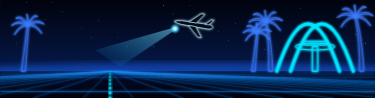
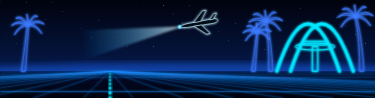
Host pass: landing light from the nose along the glide path; admin wallet button uses fixed hex colors (bento remaps white)
Claude-Session: https://claude.ai/code/session_01W4SfZfHrfogFEbRffj4dB8

Changed region(s): [[0.2347, 0.0918, 0.5867, 0.6122]]

diff --git a/src/pages/admin/TeslaCard.tsx b/src/pages/admin/TeslaCard.tsx
@@ -70,10 +70,10 @@ export function HostPassCard() {
         <Wallet className="mt-0.5 h-4 w-4 text-teal-300 bento:text-teal-600" />
         <div>
           <p className="text-sm font-medium text-white bento:text-neutral-900">My host pass</p>
-          <p className="mt-0.5 text-xs text-white/50 bento:text-neutral-500">Your own garage pass. Add it once on your iPhone; the new code lands in it on the 1st, when you save it here.</p>
+          <p className="mt-0.5 text-xs text-white/50 bento:text-neutral-500">Your own garage pass. Add it once on your iPhone. When you save the new code on the 1st, it updates itself.</p>
         </div>
       </div>
-      <a href={url} className="inline-flex shrink-0 items-center justify-center rounded-full bg-white px-5 py-2.5 text-sm font-medium text-black hover:bg-white/90 bento:bg-[#111114] bento:text-white bento:hover:bg-[#2a2a30]">Add my pass to Apple Wallet</a>
+      <a href={url} className="inline-flex shrink-0 items-center justify-center rounded-full bg-[#fff] px-5 py-2.5 text-sm font-medium text-[#111114] hover:bg-[#e8e8ec] bento:bg-[#111114] bento:text-[#fff] bento:hover:bg-[#2a2a30]">Add my pass to Apple Wallet</a>
     </div>
   );
 }
